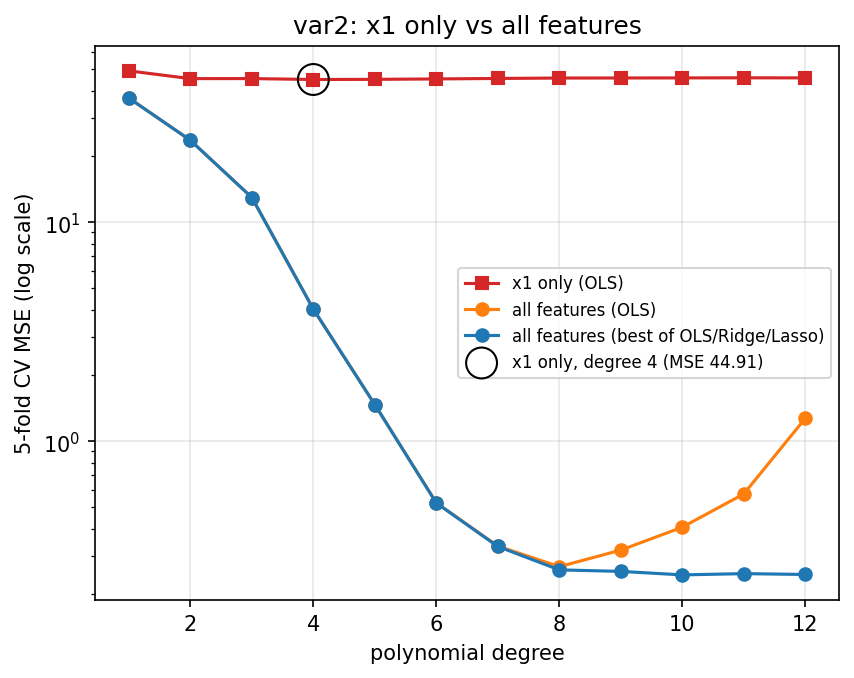
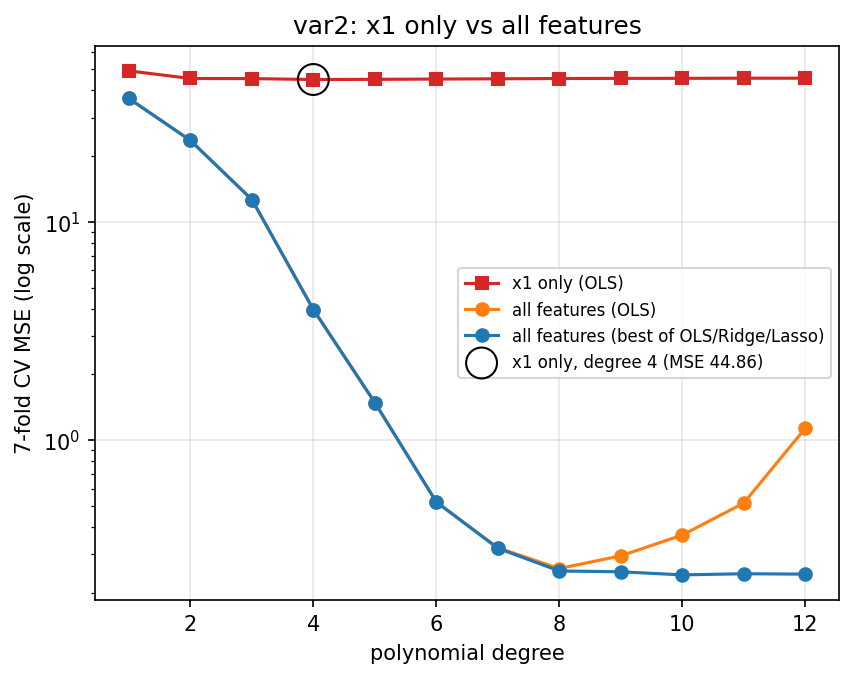
Switch to 7-fold CV, add feature subset study

diff --git a/feature_subsets.py b/feature_subsets.py
@@ -1,0 +1,58 @@
+"""
+Feature-subset study: for every non-empty subset of the input features, sweep the polynomial
+degree with OLS and Ridge (7-fold CV) and record the best setting for that subset.
+   var1: 63 subsets of 6 features      var2: 7 subsets of 3 features
+Usage: python feature_subsets.py [1|2]
+Lasso is left out here to keep the run short; OLS and Ridge are both closed-form.
+"""
+import sys
+from itertools import combinations
+import numpy as np
+import pandas as pd
+import matplotlib
+matplotlib.use("Agg")
+import matplotlib.pyplot as plt
+from polyreg import LAMBDAS, cv_mse
+
+ROLL = "BT2024251"
+MAX_DEGREE = {1: 6, 2: 12}
+
+
+def study(var):
+    df = pd.read_csv(f"{ROLL}/{ROLL}_train_var{var}.csv")
+    X, y = df.drop(columns="y").to_numpy(), df["y"].to_numpy()
+    D = X.shape[1]
+
+    rows = []
+    for size in range(1, D + 1):
+        for subset in combinations(range(D), size):
+            best = None
+            for degree in range(1, MAX_DEGREE[var] + 1):
+                for model in ("OLS", "Ridge"):
+                    mse, std = cv_mse(X[:, subset], y, degree, model)
+                    i = int(np.argmin(mse))
+                    if best is None or mse[i] < best["cv_mse"]:
+                        best = {"features": " ".join(f"x{j + 1}" for j in subset), "n_features": size,
+                                "degree": degree, "model": model, "lam": LAMBDAS[model][i],
+                                "cv_mse": mse[i], "cv_std": std[i], "cv_r2": 1 - mse[i] / y.var()}
+            rows.append(best)
+            print(f"var{var}  {best['features']:18s} best: degree {best['degree']:2d} {best['model']:5s} "
+                  f"CV MSE={best['cv_mse']:.3f}", flush=True)
+    res = pd.DataFrame(rows).sort_values("cv_mse")
+    res.to_csv(f"results/subsets_var{var}.csv", index=False)
+
+    plt.scatter(res.n_features, res.cv_mse, s=30, alpha=0.7)
+    if D <= 3:                                   # few enough points to label each one
+        for _, r in res.iterrows():
+            plt.annotate(r.features, (r.n_features, r.cv_mse), textcoords="offset points",
+                         xytext=(7, -3), fontsize=8)
+    plt.yscale("log"); plt.xticks(range(1, D + 1))
+    plt.xlabel("number of input features used"); plt.ylabel("best 7-fold CV MSE (log scale)")
+    plt.title(f"var{var}: every feature subset, best degree for each")
+    plt.grid(alpha=0.3)
+    plt.savefig(f"results/subsets_var{var}.png", dpi=150, bbox_inches="tight"); plt.close()
+
+
+if __name__ == "__main__":
+    for v in ([int(sys.argv[1])] if len(sys.argv) > 1 else [1, 2]):
+        study(v)

diff --git a/train.py b/train.py
@@ -2,7 +2,7 @@
 Training (NumPy only).   python train.py        -> both problems
                           python train.py 1      -> only var1
 
-For every degree and every model (OLS / Ridge / Lasso) we run 5-fold CV, keep the best
+For every degree and every model (OLS / Ridge / Lasso) we run 7-fold CV, keep the best
 lambda, and finally choose the lowest degree whose CV MSE is within 2% of the best.
 """
 import sys
@@ -44,7 +44,7 @@ def train(var):
     # plot 1: CV MSE vs degree
     for name, g in res.groupby("model"):
         plt.plot(g.degree, g.cv_mse, marker="o", label=name)
-    plt.yscale("log"); plt.xlabel("polynomial degree"); plt.ylabel("5-fold CV MSE (log scale)")
+    plt.yscale("log"); plt.xlabel("polynomial degree"); plt.ylabel("7-fold CV MSE (log scale)")
     plt.title(f"var{var}: model selection"); plt.legend(); plt.grid(alpha=0.3)
     plt.savefig(f"results/cv_var{var}.png", dpi=150, bbox_inches="tight"); plt.close()
 

diff --git a/hint_comparison.py b/hint_comparison.py
@@ -36,7 +36,7 @@ for var, (k, hint_degree) in HINT.items():
     h = hint[hint.degree == hint_degree].iloc[0]
     plt.scatter([hint_degree], [h.cv_mse], s=220, facecolors="none", edgecolors="k", zorder=5,
                 label=f"{label}, degree {hint_degree} (MSE {h.cv_mse:.2f})")
-    plt.yscale("log"); plt.xlabel("polynomial degree"); plt.ylabel("5-fold CV MSE (log scale)")
+    plt.yscale("log"); plt.xlabel("polynomial degree"); plt.ylabel("7-fold CV MSE (log scale)")
     plt.title(f"var{var}: {label} vs all features")
     plt.legend(fontsize=8); plt.grid(alpha=0.3)
     plt.savefig(f"results/hint_var{var}.png", dpi=150, bbox_inches="tight"); plt.close()

diff --git a/polyreg.py b/polyreg.py
@@ -106,13 +106,13 @@ def predict(m, X):
 
 
 # ---------------------------------------------------------------- cross-validation
-def kfold_indices(n, k=5, seed=0):
+def kfold_indices(n, k=7, seed=0):
     """Shuffle the row indices and split them into k blocks."""
     idx = np.random.default_rng(seed).permutation(n)
     return np.array_split(idx, k)
 
 
-def cv_mse(X, y, degree, model, k=5, seed=0):
+def cv_mse(X, y, degree, model, k=7, seed=0):
     """K-fold CV. Returns the mean and the std-dev (across folds) of the validation MSE
     for every lambda in the grid."""
     folds = kfold_indices(len(y), k, seed)

diff --git a/README.md b/README.md
@@ -3,12 +3,13 @@
 Polynomial regression written from scratch in NumPy.
 
     pip install -r requirements.txt
-    python train.py      # 5-fold CV over degree, model and lambda; saves models/ and results/
+    python train.py      # 7-fold CV over degree, model and lambda; saves models/ and results/
     python predict.py    # writes BT2024251_pred_var1.csv and BT2024251_pred_var2.csv
 
 - `polyreg.py` - polynomial features, OLS, Ridge (closed form), Lasso (coordinate descent), K-fold CV
 - `train.py` - model selection and final fit
 - `predict.py` - inference on the test files
+- `feature_subsets.py` - degree sweep for every subset of the input features (63 for var1, 7 for var2)
 - `hint_comparison.py` - restricted feature subset vs all features (run after train.py)
 - `export_weights.py` - writes the fitted weights per term to `results/weights_var<k>.csv` (run after train.py)
 - `reference_sklearn.py` - scikit-learn version, used only to cross-check the NumPy results
